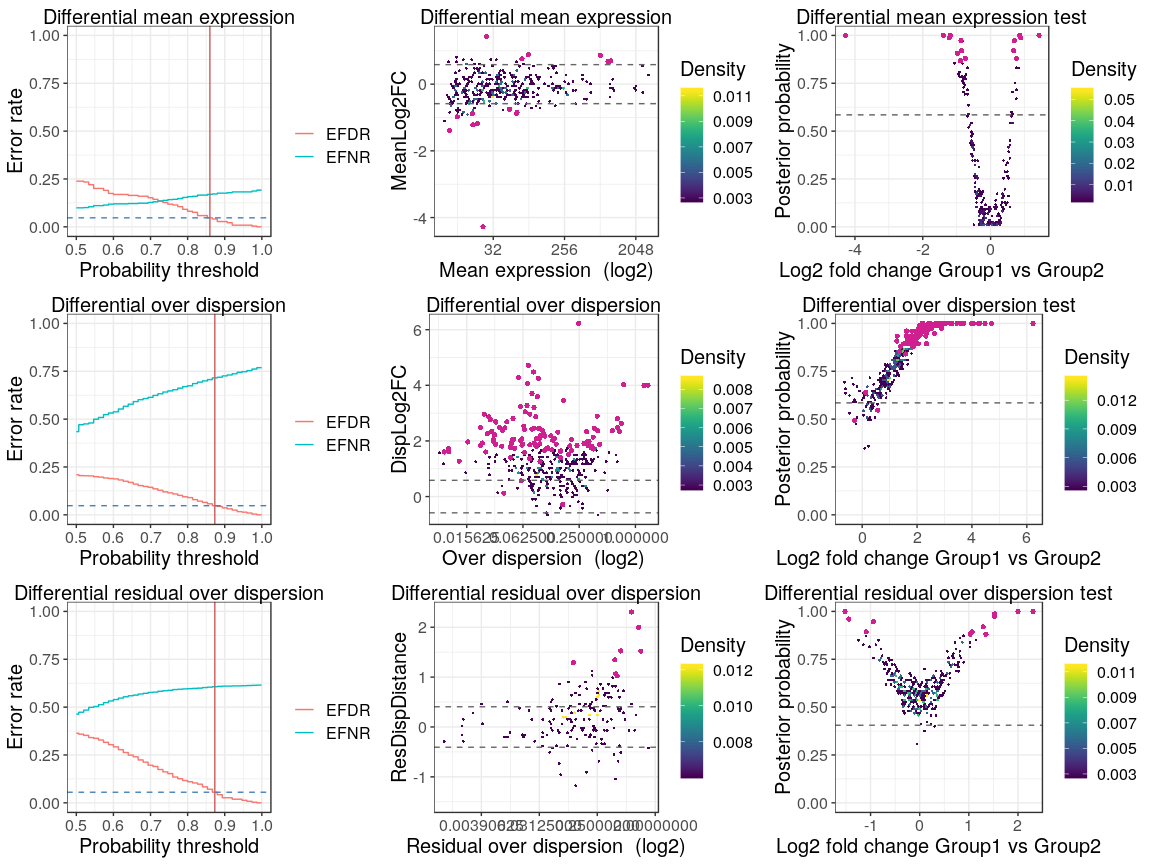
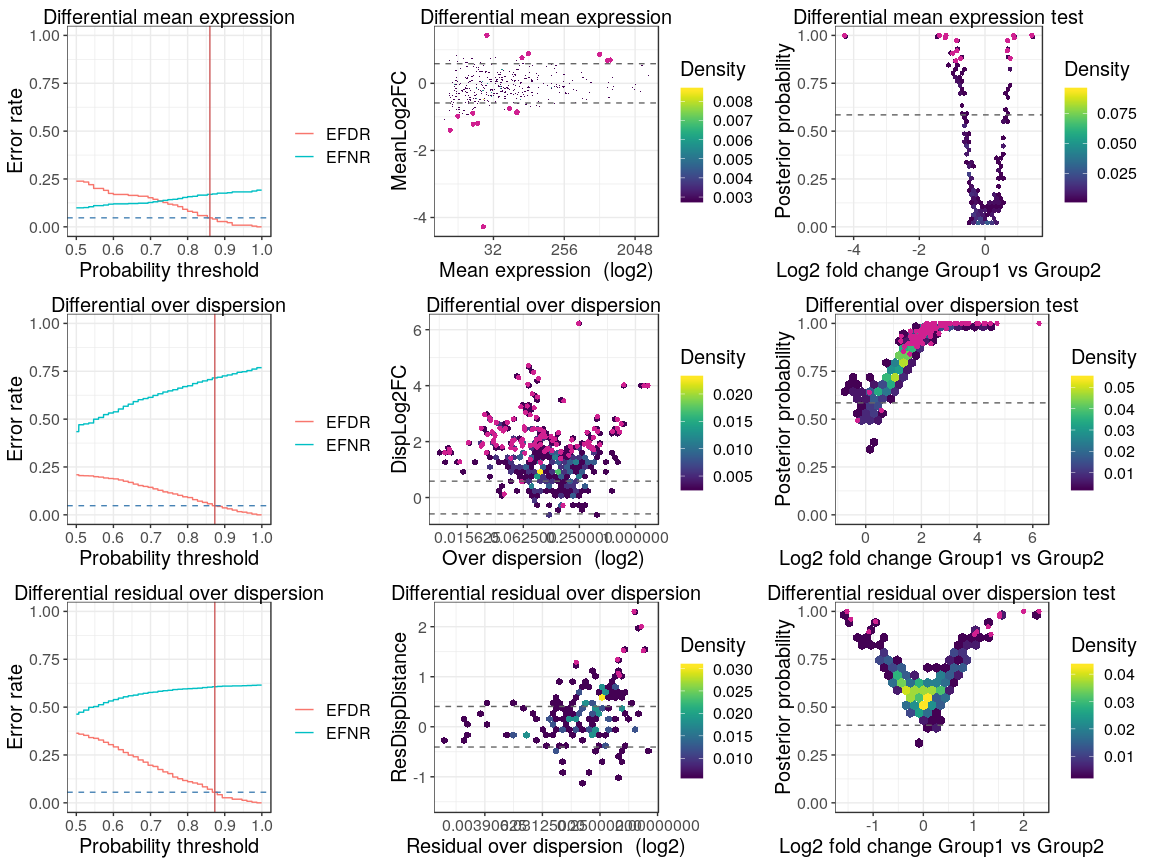
nclass FD 2d

diff --git a/DEPlots_Demo.md b/DEPlots_Demo.md
@@ -47,7 +47,7 @@
 
     DEPlots_ResultDE(de@Results[[1]])
 
-    ## Warning: Removed 16 rows containing missing values (geom_hex).
+    ## Warning: Removed 6 rows containing missing values (geom_hex).
 
     ## Warning: Removed 1 rows containing missing values (geom_hline).
 
@@ -59,7 +59,7 @@
 
     DEPlots_ResultDE(de@Results[[1]], Which = "VolcanoPlot")
 
-    ## Warning: Removed 16 rows containing missing values (geom_hex).
+    ## Warning: Removed 6 rows containing missing values (geom_hex).
 
     ## Warning: Removed 1 rows containing missing values (geom_hline).
 
@@ -71,11 +71,11 @@
 
     BASiCS_PlotDE(de)
 
-    ## Warning: Removed 16 rows containing missing values (geom_hex).
+    ## Warning: Removed 6 rows containing missing values (geom_hex).
 
     ## Warning: Removed 1 rows containing missing values (geom_hline).
 
-    ## Warning: Removed 13 rows containing missing values (geom_hex).
+    ## Warning: Removed 8 rows containing missing values (geom_hex).
 
     ## Warning: Removed 1 rows containing missing values (geom_hline).
 
@@ -90,6 +90,8 @@
     ## Warning: Removed 186 rows containing non-finite values (stat_binhex).
 
     ## Warning: Removed 4 rows containing missing values (geom_point).
+
+    ## Warning: Removed 1 rows containing missing values (geom_hex).
 
     ## Warning: Removed 1 rows containing missing values (geom_hline).
 
@@ -113,13 +115,15 @@
 
     BASiCS_PlotDE(de, Which = "VolcanoPlot")
 
-    ## Warning: Removed 16 rows containing missing values (geom_hex).
+    ## Warning: Removed 6 rows containing missing values (geom_hex).
 
     ## Warning: Removed 1 rows containing missing values (geom_hline).
 
-    ## Warning: Removed 13 rows containing missing values (geom_hex).
+    ## Warning: Removed 8 rows containing missing values (geom_hex).
 
     ## Warning: Removed 1 rows containing missing values (geom_hline).
+
+    ## Warning: Removed 1 rows containing missing values (geom_hex).
 
     ## Warning: Removed 1 rows containing missing values (geom_hline).
 
